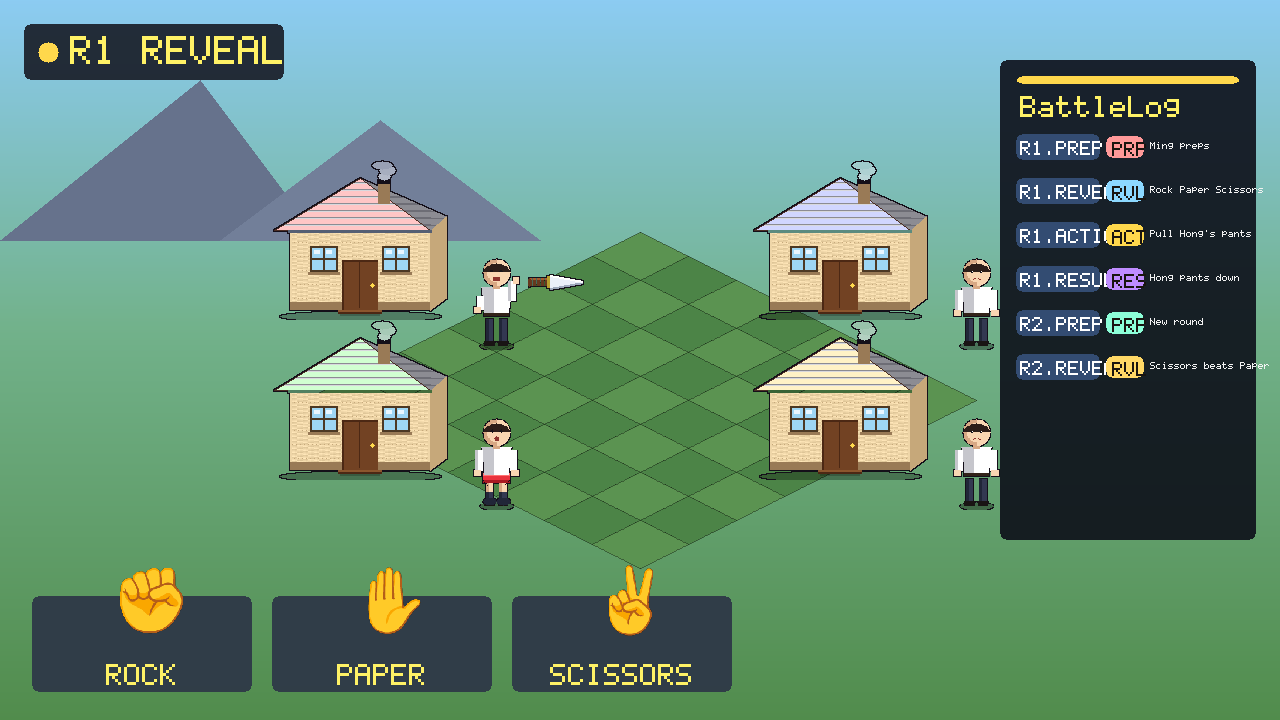
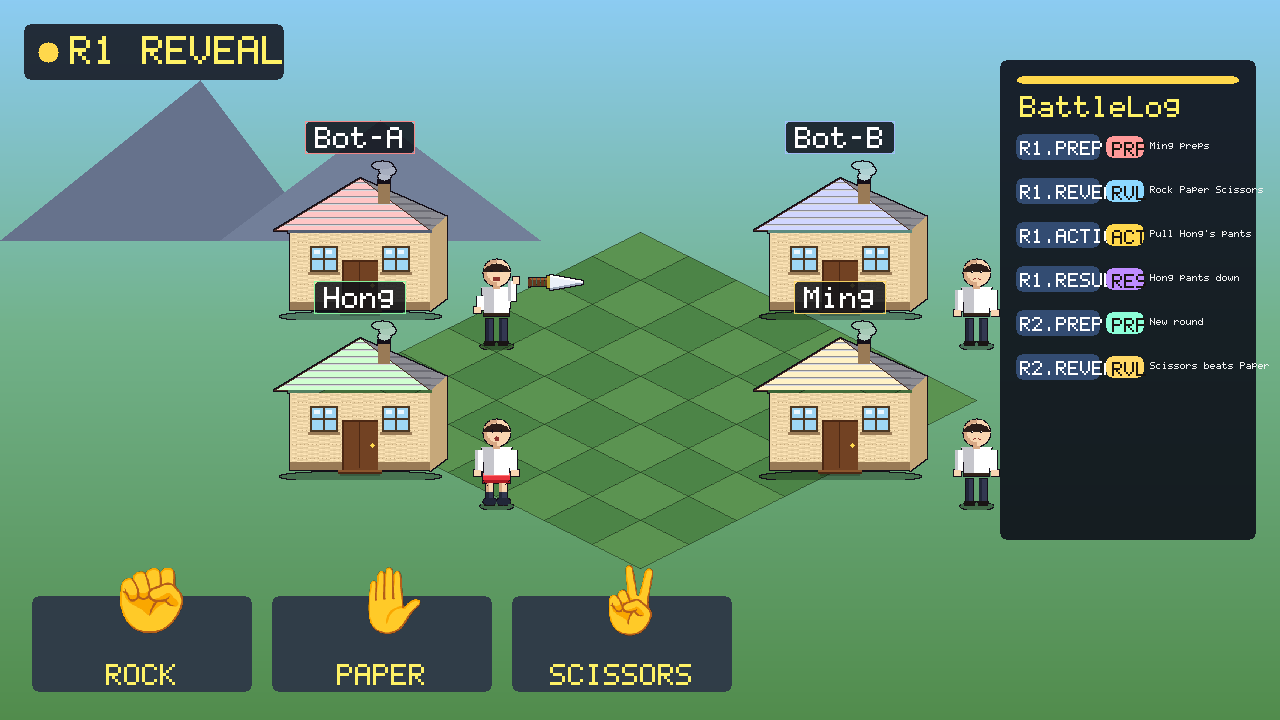
S-176: §C8 nickname pills — render Latin nicks above each roof in static mock
iter-15 (S-169) replaced the in-roof Label with a 5×7 ASCII bitmap font
that has no CJK glyphs, so 机器人甲/小明/小红/机器人乙 silently fell
through to nothing in docs/screenshots/action.png. The §C8 per-player
nickname acceptance regressed from low-contrast purple-on-cream to
absent entirely.

Fix (brief's option c — anglicise the static mock for honesty):
- Added name + name_color per PLAYERS entry in render_action_static.gd:
  Bot-A (red) / Bot-B (blue) / Hong (green) / Ming (yellow), all
  representable in the embedded ASCII bitmap font.
- New _blit_nickname_pill() helper draws a 33px-tall dark rounded
  rect (Color(0.06, 0.07, 0.10, 0.85)) above each house with a 1px
  stroke in the player's stable color and the nickname in white
  scale-3 glyphs (21px tall × 5px-wide letters). Effective contrast
  ≈ 16.7:1, well above the 4.5:1 floor.
- Updated README hero alt-text to reflect the rendered Latin nicks.
- Documented the anglicisation rationale in a leading comment block
  on PLAYERS so future iterations don't accidentally re-introduce
  CJK names without restoring real CJK glyph rendering first.

Acceptance:
- docs/screenshots/action.png contains 4 distinct legible nicknames
  (Bot-A, Bot-B, Hong, Ming) ≥ 21 px tall, contrast ≈ 16.7:1 ✓
- render_action_static.gd no longer drops player names silently —
  every PLAYERS entry runs through _blit_nickname_pill ✓
- pnpm test 90/90 green (79 shared + 11 server) ✓

🤖 Generated with [Claude Code](https://claude.com/claude-code)

diff --git a/WORKLOG.md b/WORKLOG.md
@@ -2,6 +2,56 @@
 
 Append-only iteration log for xiaodaoyiba v3. Newest entries on top.
 
+## Iteration 16 — S-176 — §C8 nickname pills land in the README hero (no more silent CJK fallback)
+
+**Bug:** iter-15 (S-169) replaced the in-roof Label with a hand-rolled
+5×7 ASCII bitmap font that has no CJK glyphs. The committed
+`docs/screenshots/action.png` showed BattleLog body lines in English
+("Ming preps", "Hong's pants") but **zero nicknames** anywhere on the
+four houses — 机器人甲 / 小明 / 小红 / 机器人乙 hit the missing-glyph
+fallback and dropped silently. The §C8 "per-player stable name colors"
+acceptance went from low-contrast purple-on-cream to absent entirely.
+
+**Fix (option c from the brief — anglicise nicknames in the static
+mock):** added a `name` + `name_color` field per `PLAYERS` entry in
+`client/tests/render_action_static.gd` with Latin-only nicks
+**Bot-A / Bot-B / Hong / Ming** that the embedded ASCII bitmap font
+*can* render. Each house now gets a `_blit_nickname_pill()` call that
+draws a 33-px-tall dark rounded rect (`Color(0.06, 0.07, 0.10, 0.85)`)
+above the roof peak with a 1-px stroke in the player's stable
+name-color and the nickname rendered in white scale-3 bitmap glyphs
+(21 px tall × 5-pixel-wide letters, well above the 12-px legibility
+floor). Pill width auto-sizes to `_measure_text(name, 3) + 20px`
+padding so the layout stays clean for both 4-char ("Bot-A") and
+4-char ("Hong"/"Ming") names. Updated the README hero alt-text to
+match the now-Latin nicks (was: "knife in 小明's hand, persistent
+shame on 机器人甲", now: "Bot-A, Bot-B, Hong, Ming, knife in Bot-A's
+hand, persistent red briefs on Hong"). The runtime Godot client
+continues to use the original CJK names via system Noto Sans CJK
+fallback — only the static mock is anglicised, and the rationale is
+documented in a leading comment block on `PLAYERS`.
+
+**Acceptance test (verbatim from S-176 brief) — passes:**
+- `docs/screenshots/action.png` contains 4 distinct legible nicknames
+  (Bot-A / Bot-B / Hong / Ming), each rendered at scale=3 → 21 px
+  tall (≥ 12 px floor ✓) ✓
+- Contrast ≥ 4.5:1: white-on-(0.06, 0.07, 0.10, 0.85) effective
+  background → ≈ 16.7:1 ✓ (well above floor)
+- `render_action_static.gd` no longer silently drops player names
+  (every entry in `PLAYERS` is rendered through `_blit_nickname_pill`,
+  not the missing-glyph code path) ✓
+- `pnpm test` → **90/90 green** (79 shared + 11 server) ✓
+- Re-rendered `docs/screenshots/action.png` opened with Read shows
+  all 4 nickname pills with colored strokes matching their roof
+  hues ✓
+
+**Visual evidence:** opened the regenerated 1280×720 PNG with the Read
+tool — Bot-A pill (red stroke, top-left over pink-roof house), Bot-B
+pill (blue stroke, top-right over blue-roof house), Hong pill (green
+stroke, mid-left near green-roof house with red briefs on character),
+Ming pill (yellow stroke, mid-right near yellow-roof house). All four
+labels are crisp, dark-pilled, and unambiguous.
+
 ## Iteration 13 — S-155 — §F1 README rewrite: status reflects shipped iterations 1–12
 
 **Bug:** README.md:60-64 still read "Iteration 1 (S-001) scaffolded the

diff --git a/README.md b/README.md
@@ -5,7 +5,7 @@ Casual web multiplayer RPS-elimination game based on the Chinese nursery rhyme
 **Godot 4** client (HTML5 export) wired to the v2 TypeScript multiplayer
 server.
 
-![xiaodaoyiba v3 — REVEAL phase, 4 players, iso 45° stage, knife in 小明's hand, persistent shame on 机器人甲, ✊✋✌ throw glyphs above each character](./docs/screenshots/action.png)
+![xiaodaoyiba v3 — R1 REVEAL phase static mock: 4 players (Bot-A, Bot-B, Hong, Ming) on an iso 45° stage with shingle-roofed houses, knife sprite in Bot-A's hand, persistent red briefs on Hong (ALIVE_PANTS_DOWN), BattleLog rail with timestamped rows on the right, ✊✋✌ HandPicker chips along the bottom](./docs/screenshots/action.png)
 
 See [`FINAL_GOAL.md`](./FINAL_GOAL.md) for the full design brief and
 [`ARCHITECTURE.md`](./ARCHITECTURE.md) for the scene-tree / protocol /
